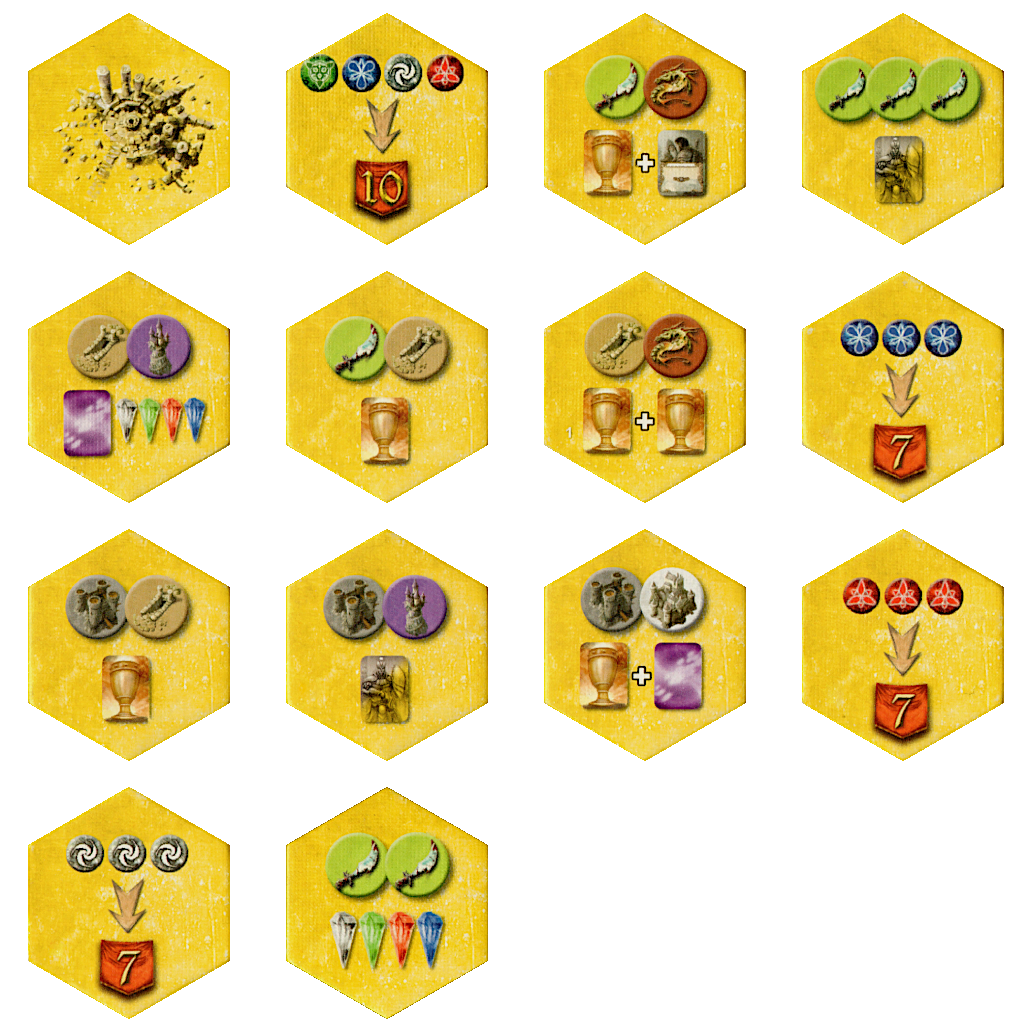
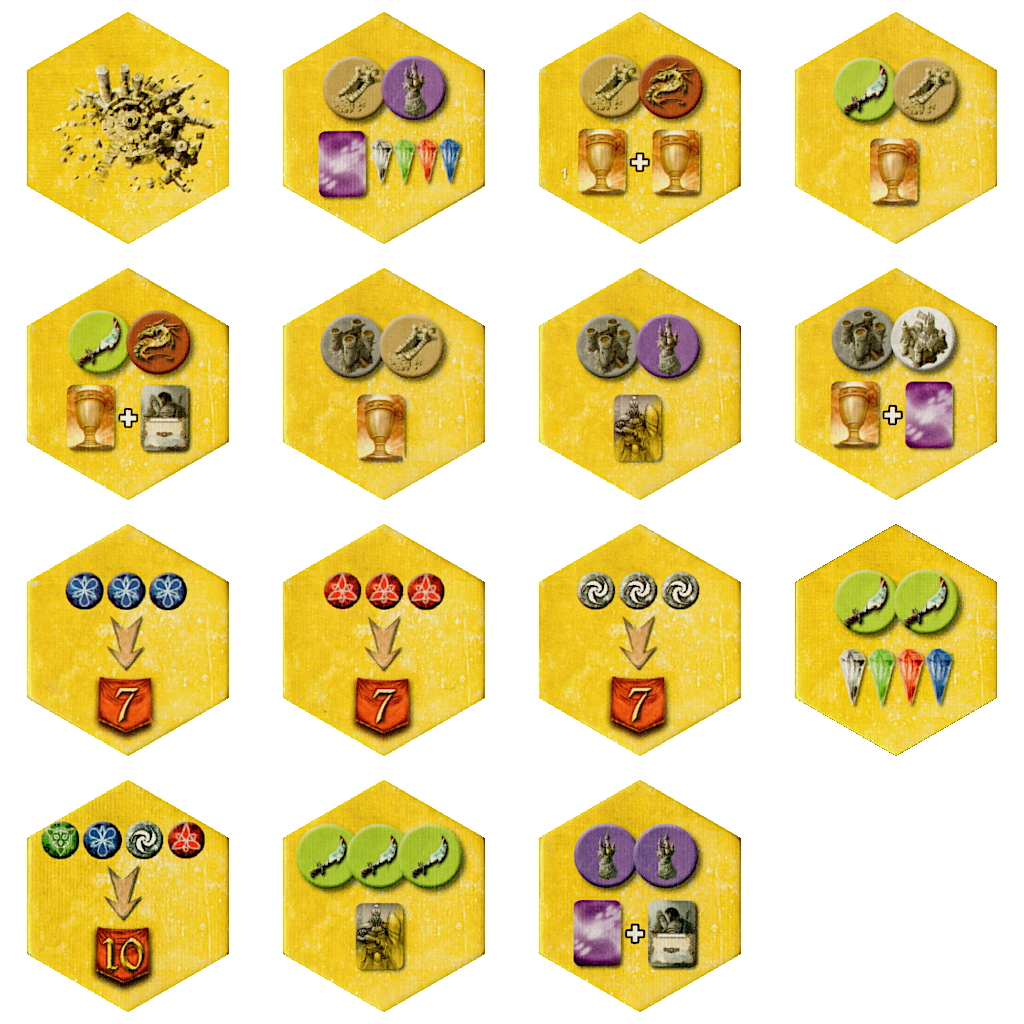
Started Ruin token logic

diff --git a/Utils.cs b/Utils.cs
@@ -17,6 +17,7 @@ public partial class Utils : Node
 		{"brown","res://assets/TokenImages/BrownTokens/brown_tokens_sheet.png"},
 		{"red","res://assets/TokenImages/RedTokens/red_tokens_sheet.png"},
 		{"white","res://assets/TokenImages/WhiteTokens/white_tokens_sheet.png"},
+		{"yellow","res://assets/TokenImages/YellowTokens/yellow_tokens_sheet.png"},
 		{"silver","res://assets/silverunits.jpg"},
 		{"gold","res://assets/goldunits.jpg"},
 		{"dice","res://assets/dice.jpg"}
@@ -40,6 +41,7 @@ public partial class Utils : Node
 	public static Dictionary<string, AtlasTexture> SpriteSheets = new Dictionary<string, AtlasTexture>();
 	public static Dictionary<int,MonsterObject> Bestiary;
 	public static Dictionary<int,UnitObject> UnitStats;
+	public static Dictionary<int,RuinObject> RuinEvents;
 
 	// Called when the node enters the scene tree for the first time.
 	public override void _Ready()
@@ -48,6 +50,8 @@ public partial class Utils : Node
 		LoadBestiary();
 		GameSettings.createMonsterStacks();
 		LoadUnits();
+		LoadRuins();
+		GameSettings.createYellowStack();
 	}
 
 	public static MonsterColour ConvertStringToMonsterColour(string colour)
@@ -95,6 +99,13 @@ public partial class Utils : Node
 		StreamReader sr = new StreamReader("./Unit/units.json");
 		string json = sr.ReadToEnd();
 		UnitStats = JsonConvert.DeserializeObject<Dictionary<int, UnitObject>>(json);
+	}
+
+	private void LoadRuins()
+	{
+		StreamReader sr = new StreamReader("./Ruin/ruins.json");
+		string json = sr.ReadToEnd();
+		RuinEvents = JsonConvert.DeserializeObject<Dictionary<int, RuinObject>>(json);
 	}
 
 	public static void PrintBestiary()
@@ -148,6 +159,16 @@ public class UnitObject
 	public int Count { get; set; }
 }
 
+public class RuinObject
+{
+	public string Name { get; set; }
+	public string Event { get; set; }
+	public List<string> Requirements { get; set; }
+	public List<string> Rewards { get; set; }
+	public int X { get; set; }
+	public int Y { get; set; }
+	public string Version { get; set; }
+}
 public class MonsterAttack
 {
 	public int Value { get; set; }

diff --git a/GameSettings.cs b/GameSettings.cs
@@ -18,13 +18,14 @@ public partial class GameSettings : Node
 	public static readonly int CardWidth = 1000;
 	public static readonly int CardLength = 1400;
 
-	private static Stack<int> greenMonsterStack = new Stack<int>();
 	private static Dictionary<MonsterColour, List<int>> _discardPiles = [];
+	private static Stack<int> greenMonsterStack = new Stack<int>();
 	private static Stack<int> greyMonsterStack = new Stack<int>();
 	private static Stack<int> purpleMonsterStack = new Stack<int>();
 	private static Stack<int> brownMonsterStack = new Stack<int>();
 	private static Stack<int> redMonsterStack = new Stack<int>();
 	private static Stack<int> whiteMonsterStack = new Stack<int>();
+	private static Stack<int> yellowTokenStack = new Stack<int>();
 	private static Dictionary<MonsterColour, Stack<int>> MonsterStacks = new Dictionary<MonsterColour, Stack<int>>();
 	public static bool CombatSim = false;
 
@@ -117,6 +118,22 @@ public partial class GameSettings : Node
 		_discardPiles.Add(MonsterColour.White,new List<int>());
 	}
 
+	public static void createYellowStack()
+	{
+		foreach (var ruin in Utils.RuinEvents)
+		{
+			int ruinID = ruin.Key;
+			yellowTokenStack.Push(ruinID);
+		}
+	}
+
+	public static int DrawRuin()
+	{
+		if (!yellowTokenStack.TryPop(out int id))
+		{
+		}
+		return id;
+	}
 	public static int DrawMonster(MonsterColour colour)
 	{
 		if (!MonsterStacks[colour].TryPop(out int id))

diff --git a/GameplayControl.cs b/GameplayControl.cs
@@ -153,6 +153,26 @@ public partial class GameplayControl : Control
 		EnemyList.Add(monsterToken);
 	}
 
+	// Generate Ruin Token, may need to add in variable for whether flipped
+	public void RuinGen(string name, Vector2I localPos)
+	{
+		var enemy = GameSettings.DrawMonster(Utils.ConvertStringToMonsterColour(colour));
+		var monsterToken = (MapToken)monsterScene.Instantiate();
+		monsterToken.MapPosition = localPos;
+		monsterToken.SiteFortifications = siteFortifications;
+		monsterToken.Colour = colour;
+		monsterToken.TokenId = enemy;
+		var monsterStats = Utils.Bestiary[enemy];
+		var enemySprite = monsterToken.GetNode<Sprite2D>("MapTokenControl/Sprite2D");
+		var atlas = (AtlasTexture)Utils.SpriteSheets[monsterToken.Colour].Duplicate();
+		atlas.Region = new Rect2(new Vector2(monsterStats.X * _monsterSpriteSize, monsterStats.Y * _monsterSpriteSize), new Vector2(_monsterSpriteSize, _monsterSpriteSize));
+		enemySprite.Texture = atlas;
+		enemySprite.Scale = new Vector2((float)0.25, (float)0.25);
+		monsterToken.GlobalPosition = mapGen.ToGlobal(mapGen.MapToLocal(localPos));
+		AddChild(monsterToken);
+		EnemyList.Add(monsterToken);
+	}
+
 	public void _on_challenge_button_pressed()
 	{
 		foreach (var enemy in EnemyList)

diff --git a/MapGen/MapGen.cs b/MapGen/MapGen.cs
@@ -97,7 +97,13 @@ public partial class MapGen : TileMap
 						// Generate monster from color stack, site fortifications from what site it's on, on what tile
 						gameplayControl.MonsterGen(tokenData, (patternTileData.GetCustomData("Event").ToString() == "") ? 0 : 1, patternTile);
 					}
-				}				
+					else if (tokenData == "yellow")
+					{
+						// May need to add in switch statement for whether token is flipped
+						// Generate monster from color stack, site fortifications from what site it's on, on what tile
+						gameplayControl.MonsterGen(tokenData, (patternTileData.GetCustomData("Event").ToString() == "") ? 0 : 1, patternTile);
+					}
+				}
 
 				if (this.tileStack.Count == 0) // No tiles left in stack, rebuild stack with brown tiles
 				{
